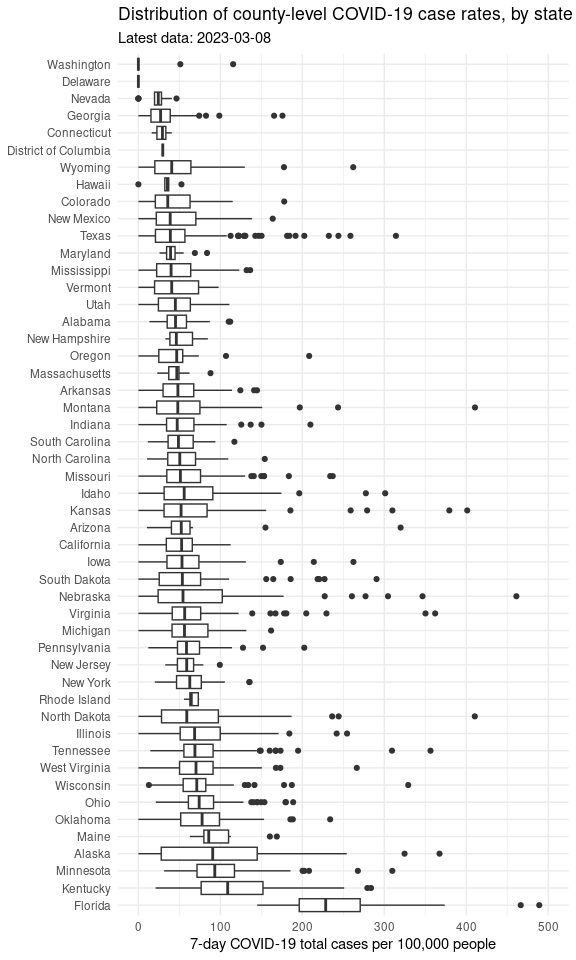
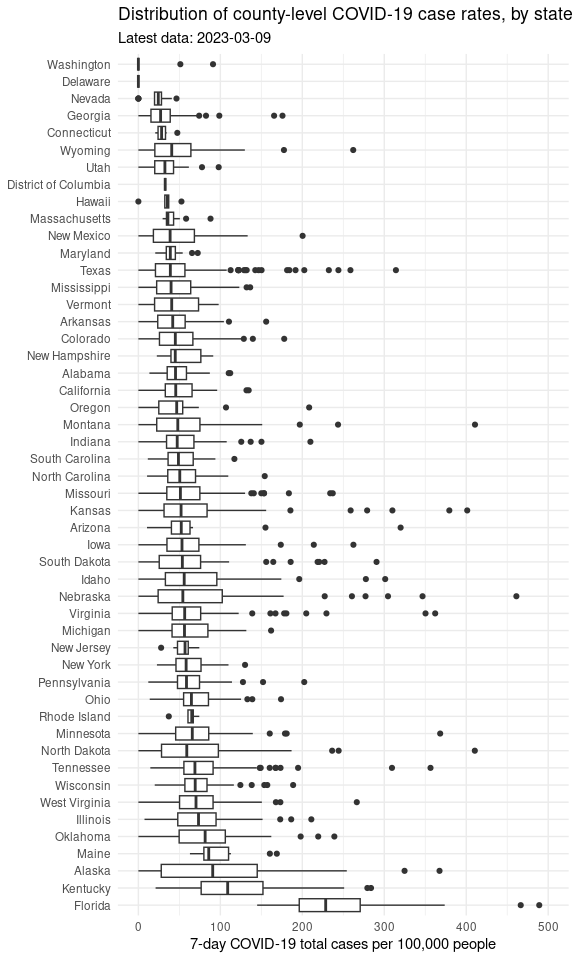
Updated report

diff --git a/README.md b/README.md
@@ -1,7 +1,7 @@
 Minnesota COVID Report
 ================
 
-Report last run: 2023-03-09 22:09:22
+Report last run: 2023-03-10 22:08:37
 
 ## Introduction
 
@@ -108,12 +108,11 @@ rate_data %>%
 
 | county                   | state        |     pop | covid_rate |
 |:-------------------------|:-------------|--------:|-----------:|
-| Mineral                  | Colorado     |     769 |       1170 |
+| Mineral                  | Colorado     |     769 |       1040 |
 | Hodgeman                 | Kansas       |    1794 |        669 |
 | Lamb                     | Texas        |   12893 |        667 |
 | Rolette                  | North Dakota |   14176 |        578 |
 | Union                    | Kentucky     |   14381 |        570 |
-| Traverse                 | Minnesota    |    3259 |        552 |
 | Miami-Dade               | Florida      | 2716940 |        508 |
 | Bethel Census Area       | Alaska       |   18386 |        506 |
 | Jackson                  | Florida      |   46414 |        489 |
@@ -124,6 +123,7 @@ rate_data %>%
 | Clark                    | Kansas       |    1994 |        401 |
 | Gove                     | Kansas       |    2636 |        379 |
 | Suwannee                 | Florida      |   44417 |        374 |
+| Traverse                 | Minnesota    |    3259 |        368 |
 | Northwest Arctic Borough | Alaska       |    7621 |        367 |
 | Tazewell                 | Virginia     |   40595 |        362 |
 | Campbell                 | Tennessee    |   39842 |        356 |
